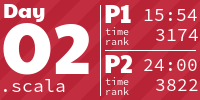
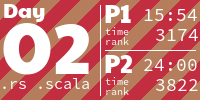
Day 2 2023

diff --git a/src/y2023/day2.rs b/src/y2023/day2.rs
@@ -1,0 +1,147 @@
+use std::io::{self, BufRead};
+
+use itertools::Itertools;
+use nom::{
+    branch::alt,
+    bytes::complete::tag,
+    character::complete::{self, newline},
+    multi::separated_list1,
+    sequence::{delimited, terminated, tuple},
+    IResult, Parser,
+};
+
+use crate::aoc::day::{DayParser, DaySolution};
+
+pub const TITLE: &str = "Cube Conundrum";
+
+#[derive(Debug, PartialEq, Eq, Hash)]
+enum Color {
+    Red,
+    Green,
+    Blue,
+}
+
+#[derive(Debug)]
+struct Cubes {
+    color: Color,
+    count: u8,
+}
+
+#[derive(Debug)]
+struct Game {
+    id: u8,
+    // Sets of cubes don't really matter, so just adding all the cubes to one big list is fine.
+    cubes: Vec<Cubes>,
+}
+
+pub struct Solution {
+    games: Vec<Game>,
+}
+
+impl DayParser for Solution {
+    fn with_input(input: &mut dyn BufRead) -> Self {
+        let input = io::read_to_string(input).unwrap();
+        let (_, games) = games(input.as_str()).unwrap();
+        Self { games }
+    }
+}
+
+fn games(input: &str) -> IResult<&str, Vec<Game>> {
+    separated_list1(newline, game)(input)
+}
+
+fn game(input: &str) -> IResult<&str, Game> {
+    let (input, (id, cubes)) = tuple((
+        delimited(tag("Game "), complete::u8, tag(": ")),
+        separated_list1(alt((tag("; "), tag(", "))), cubes),
+    ))(input)?;
+    Ok((input, Game { id, cubes }))
+}
+
+fn cubes(input: &str) -> IResult<&str, Cubes> {
+    alt((
+        terminated(complete::u8, tag(" red")).map(|count| Cubes {
+            color: Color::Red,
+            count,
+        }),
+        terminated(complete::u8, tag(" green")).map(|count| Cubes {
+            color: Color::Green,
+            count,
+        }),
+        terminated(complete::u8, tag(" blue")).map(|count| Cubes {
+            color: Color::Blue,
+            count,
+        }),
+    ))(input)
+}
+
+impl DaySolution for Solution {
+    fn part1(&self) -> String {
+        self.games
+            .iter()
+            .filter(|game| game.is_valid())
+            .map(|game| game.id as u32)
+            .sum::<u32>()
+            .to_string()
+    }
+
+    fn part2(&self) -> String {
+        self.games
+            .iter()
+            .map(|game| game.power_of_minimal_cubes())
+            .sum::<u32>()
+            .to_string()
+    }
+}
+
+impl Game {
+    fn is_valid(&self) -> bool {
+        self.cubes.iter().all(|cube| match cube.color {
+            Color::Red => cube.count <= 12,
+            Color::Green => cube.count <= 13,
+            Color::Blue => cube.count <= 14,
+        })
+    }
+
+    fn power_of_minimal_cubes(&self) -> u32 {
+        let max_by_color = &self
+            .cubes
+            .iter()
+            .into_grouping_map_by(|&cubes| &cubes.color)
+            .max_by_key(|_color, &cubes| cubes.count);
+        let minimal_number_of_cubes = max_by_color
+            .iter()
+            .map(|(_color, &cubes)| cubes.count as u32);
+        minimal_number_of_cubes.product()
+    }
+}
+
+#[cfg(test)]
+mod tests {
+    use super::*;
+    use crate::input;
+
+    #[test]
+    fn test_part1_example() {
+        let solution = Solution::with_input(input!(example));
+        assert_eq!(solution.part1(), "8");
+    }
+
+    #[test]
+    fn test_part1_input() {
+        let solution = Solution::with_input(input!(input));
+        assert_eq!(solution.part1(), "2156");
+    }
+
+    #[test]
+    fn test_part2_example() {
+        let solution = Solution::with_input(input!(example));
+        assert_eq!(solution.part2(), "2286");
+    }
+
+    #[test]
+    fn test_part2_input() {
+        let solution = Solution::with_input(input!(input));
+        assert_eq!(solution.part2(), "66909");
+    }
+}

diff --git a/benches/solutions.rs b/benches/solutions.rs
@@ -63,5 +63,5 @@ benchmarks!(
     (Benchmark2016 / y2016: day1),
     (Benchmark2021 / y2021: day1),
     (Benchmark2022 / y2022: day1, day3, day4, day6, day10, day13, day16, day17, day23, day24, day25),
-    (Benchmark2023 / y2023: day1),
+    (Benchmark2023 / y2023: day1, day2),
 );

diff --git a/src/lib.rs b/src/lib.rs
@@ -62,5 +62,5 @@ aoc_solutions!(
     y2016: day1;
     y2021: day1;
     y2022: day1, day3, day4, day6, day10, day13, day16, day17, day23, day24, day25;
-    y2023: day1;
+    y2023: day1, day2;
 );

diff --git a/README.md b/README.md
@@ -3,13 +3,16 @@ Rust solutions for [Advent of Code](http://adventofcode.com/). My scala solution
 
 <!-- AOC TILES BEGIN -->
 <h1 align="center">
-  2023 - 4 ⭐
+  2023 - 6 ⭐
 </h1>
 <a href="src/y2023/day1.rs">
   <img src="AoCTiles/2023/01.png" width="161px">
 </a>
-<a href="https://github.com/SuperTux88/adventofcode/blob/main/src/main/scala/adventofcode/y2023/Day2.scala">
+<a href="src/y2023/day2.rs">
   <img src="AoCTiles/2023/02.png" width="161px">
+</a>
+<a href="https://github.com/SuperTux88/adventofcode/blob/main/src/main/scala/adventofcode/y2023/Day3.scala">
+  <img src="AoCTiles/2023/03.png" width="161px">
 </a>
 <h1 align="center">
   2022 - 50 ⭐
